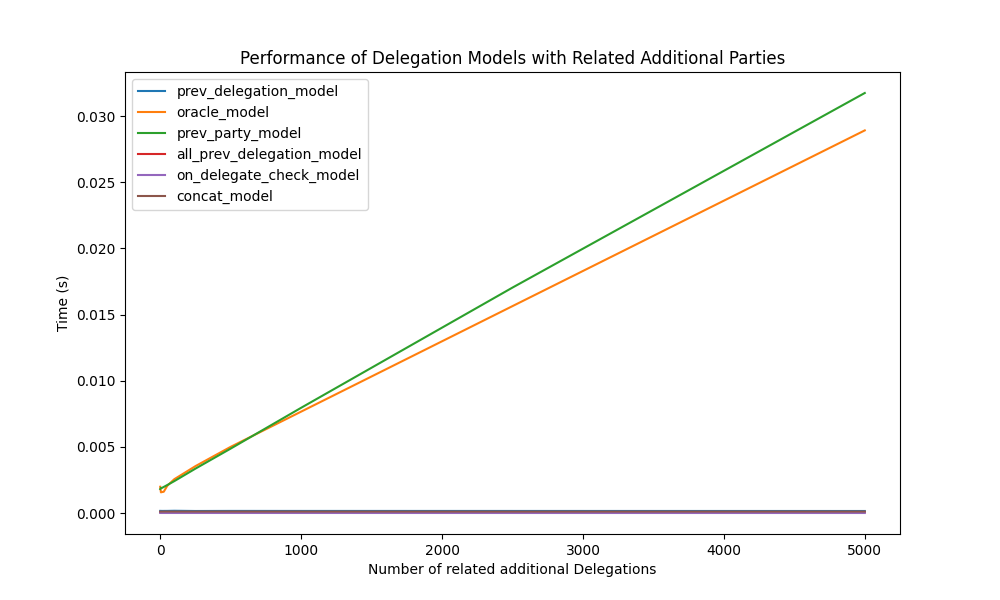
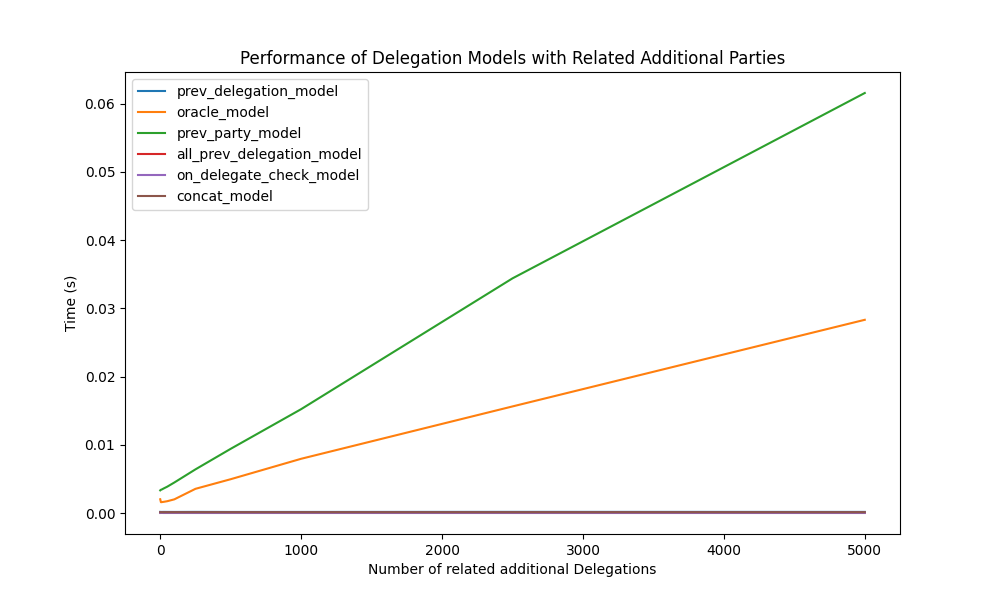
Minor update

diff --git a/src/tests/main.py b/src/tests/main.py
@@ -4,6 +4,7 @@ import json
 
 
 # TODO: Remove the database parameter, and instead put this directly in the services
+# TODO: Add test for overlapping authorizations in a delegation
 
 
 class DelegationModelTests:
@@ -99,21 +100,21 @@ class DelegationModelTests:
         results = {"tests": results}
 
         # Performance test
-        # self.service.db_broker.add_database("base", self.service.db_class("base"))
-        # performance_results = self.get_performance_values()
-        # results["performance"] = performance_results
-
-        # # # Reset database
-        # self.service.db_broker.add_database("base", self.service.db_class("base"))
-        # performance_additional_parties = self.get_performance_values_additional_parties()
-        # results["performance_additional_parties"] = performance_additional_parties
+        self.service.db_broker.add_database("base", self.service.db_class("base"))
+        performance_results = self.get_performance_values()
+        results["performance"] = performance_results
 
         # # Reset database
-        # self.service.db_broker.add_database("base", self.service.db_class("base"))
-        # performance_related_additional_parties = (
-        #     self.get_performance_values_related_additional_parties()
-        # )
-        # results["performance_related_additional_parties"] = performance_related_additional_parties
+        self.service.db_broker.add_database("base", self.service.db_class("base"))
+        performance_additional_parties = self.get_performance_values_additional_parties()
+        results["performance_additional_parties"] = performance_additional_parties
+
+        # Reset database
+        self.service.db_broker.add_database("base", self.service.db_class("base"))
+        performance_related_additional_parties = (
+            self.get_performance_values_related_additional_parties()
+        )
+        results["performance_related_additional_parties"] = performance_related_additional_parties
 
         # Add a summary per category
         results["summary"] = {}

diff --git a/src/models/oracle/service.py b/src/models/oracle/service.py
@@ -1,6 +1,4 @@
 from ..base import service as BaseService
-import networkx as nx
-import time
 from typing import List
 
 
